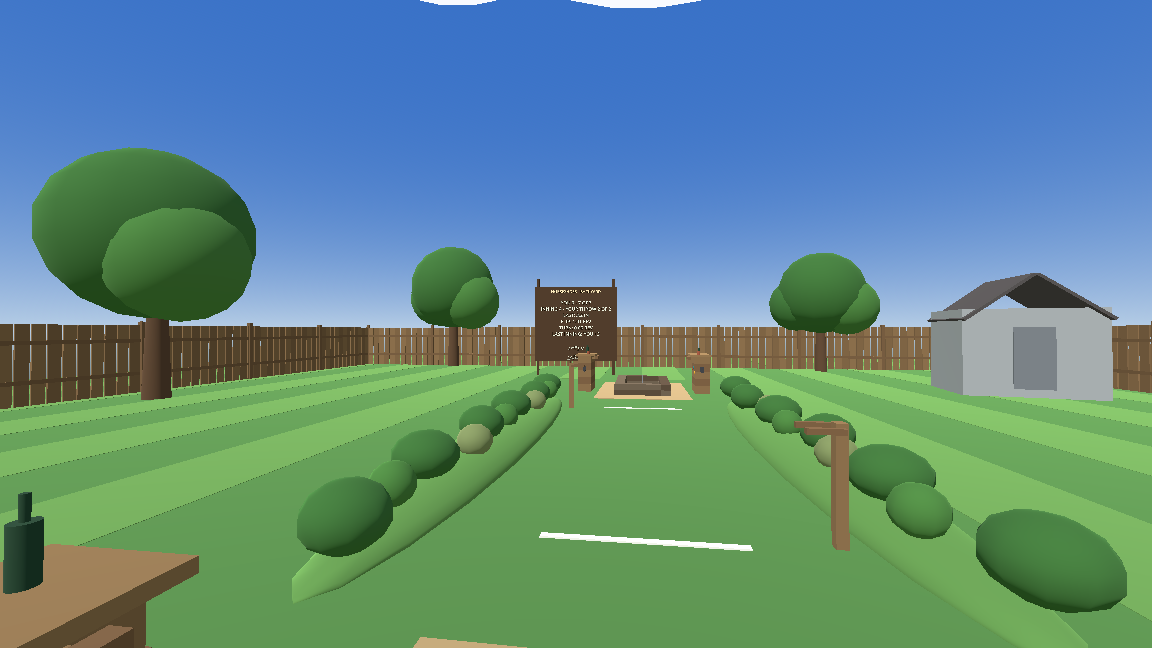
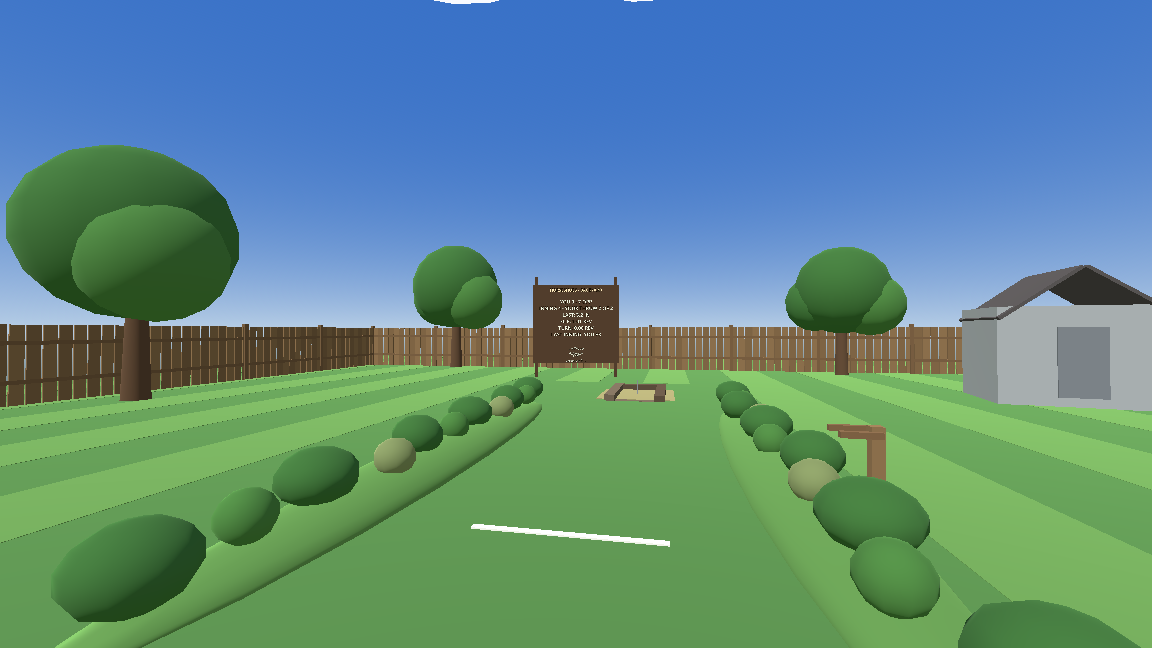
Fix pass 19 (checkpoint 3): AI re-measured, full verification
The AI's line from its new spot, re-measured at real pacing
(220 throws through the production flight path, 0 harness
misses): at the old spread the straight-on arrivals widened
it (21.4% ringers, 74.1% inside 6 in, mean 5.2 in); one
~15% tightening of the dispersion terms restored the family
- FINAL: 25.0% ringers, 78.2% inside 6 in, mean 5.5 in
(the far tail is the grade-level pit's open runout),
self-play 1.14. Verification: logic 171/171 (the -2 is the
retired far-end AI-release mirror, explained in the test),
smoke 380/380 with every cycle walked, technique audit
53/53 at the true lines, benches 76/76 + 41/41, proofs
24/24 under Xvfb with court_view re-shot on-axis, sand
measure confirms the sunk pit lands as dead as Stage 1's.
README describes the one-pit game.

diff --git a/README.md b/README.md
@@ -1,37 +1,44 @@
 # VR Horseshoes — Backyard Game v1
 
 The toss test grew into a game (Godot 4.7, OpenXR, PCVR via editor).
-A full two-pit backyard court, a pair of shoes each for you and the
-AI opponent, and a real game of horseshoes: NHPA cancellation
-scoring, first to 21. The toss itself is unchanged from the judged
-test — 1:1 release, no assist. Design skeleton: `design-skeleton.md`.
+A one-pit backyard court — the real backyard form: one timber sand
+pit, true foul lines at the pitching end, a pair of shoes each for
+you and the AI opponent, and a real game of horseshoes: NHPA
+cancellation scoring, first to 21. The toss itself is unchanged
+from the judged test — 1:1 release, no assist. Design skeleton:
+`design-skeleton.md`.
 
 ## The game
 
-- **Practice** is the old toss test: free throwing at either pit,
-  from the 40 ft line or the 30 ft learning line, with the
-  per-throw readouts (landing inches, flip/turn revolutions) on the
-  board. Your pair of yellow shoes hangs on the rail stand at
-  whichever end you're standing at.
+- **Practice** is the old toss test: free throwing at the one pit,
+  from the 37 ft line (40 ft class) or the 27 ft learning line
+  (30 ft class), with the per-throw readouts (landing inches,
+  flip/turn revolutions) on the board. Your pair of yellow shoes
+  hangs on the station at the 37 ft line, or on the slim peg post
+  at the 27 ft line — the shoe waits where you are.
 - **Press A** (either hand) to start a game. You throw first.
-- An **inning**: at one end, you throw both of your shoes, then the
-  AI throws both of its blue ones. All four stay where they land.
+- An **inning**: at the pitching end, you throw both of your shoes,
+  then the AI throws both of its blue ones from beside you. All
+  four stay where they land.
 - **Scoring (cancellation):** a ringer is worth 3; ringers cancel
   in pairs. Then only the side holding the closest shoe(s) inside
   6 inches scores — 1 point per shoe closer than the opponent's
   closest. Only one side scores per inning.
-- **Between innings** the shoes are gathered, play reverses to the
-  other pit, and the side that scored throws first (a scoreless
-  inning alternates). Swap ends with **B**, or just walk there —
-  arriving counts too.
+- **The one-way rhythm:** when both sides have thrown, walk down
+  to the pit — arriving scores the inning. The shoes gather back
+  to the pitching end; walk back to the line and the next inning
+  is stocked. The side that scored throws first (a scoreless
+  inning alternates).
 - **First to 21** at an inning's end wins (no win-by-two). At game
-  over: **A** plays again, **B** returns to practice.
-- The **AI opponent** stands in the pitcher's box beside the
-  throwing end and pitches a flip through the same physics as your
-  shoes — no faked outcomes. It's a club player: measured over 220
-  simulated throws it rings ~27% and puts ~74% of its shoes inside
-  scoring range, worth about 1.6 points a side per inning in
-  self-play. It never throws while you're in the lane.
+  over: **A** plays again, **B** returns to practice. In a game,
+  **B** returns to practice at any time.
+- The **AI opponent** stands in the pitcher's box beside you at
+  the pitching end and pitches a flip through the same physics
+  as your shoes — no faked outcomes. It's a club player:
+  measured over 220 simulated throws at live pacing it rings
+  25% and puts 78% of its shoes inside scoring range, worth
+  about 1.14 points a side per inning in self-play. It never
+  throws while you're in the lane.
 
 ## Controls (all of them — also listed on the board in-world)
 
@@ -46,8 +53,8 @@ test — 1:1 release, no assist. Design skeleton: `design-skeleton.md`.
 - **Drop:** open your hand while still.
 - **Move:** left stick walks, right stick turns (smoothly) — both
   live at once, so you can curve.
-- **A button:** start game / play again. **B button:** swap ends
-  when prompted / back to practice at game over.
+- **A button:** start game / play again. **B button:** back to
+  practice (in a game).
 - **Recenter:** system menu / long-press (platform standard).
 
 ## Throws file
@@ -89,11 +96,13 @@ probe over Chris's recorded throws, and the production path
 end to end. Throw records carry the evidence per throw:
 `release_timing` ("substep" / "grid" / "ai_exact"),
 `substep_offset_ms`, and the bracketing grip readings. The smoke suite plays a full game to
-21 headlessly (scripted player throws + AI turns, end swaps by
-button and by walking). `ai_measure.gd` is the AI tuning harness
-that produced the line quoted above.
+21 headlessly (scripted player throws + AI turns, every inning
+scored by walking down to the pit and stocked by walking back —
+production sticks throughout). `ai_measure.gd` is the AI tuning
+harness that produced the line quoted above.
 
-Rendered proofs land in `proofs/` (court_view.png — the full
-court, both pits; board_closeup.png — the board mid-game;
+Rendered proofs land in `proofs/` (court_view.png — the one-pit
+yard on-axis: line end in front, pit under the board at the far
+end; board_closeup.png — the board mid-game;
 board_from_foul_line.png, held_shoe.png).
 Suites verify math and wiring — feel is judged in the headset only.
